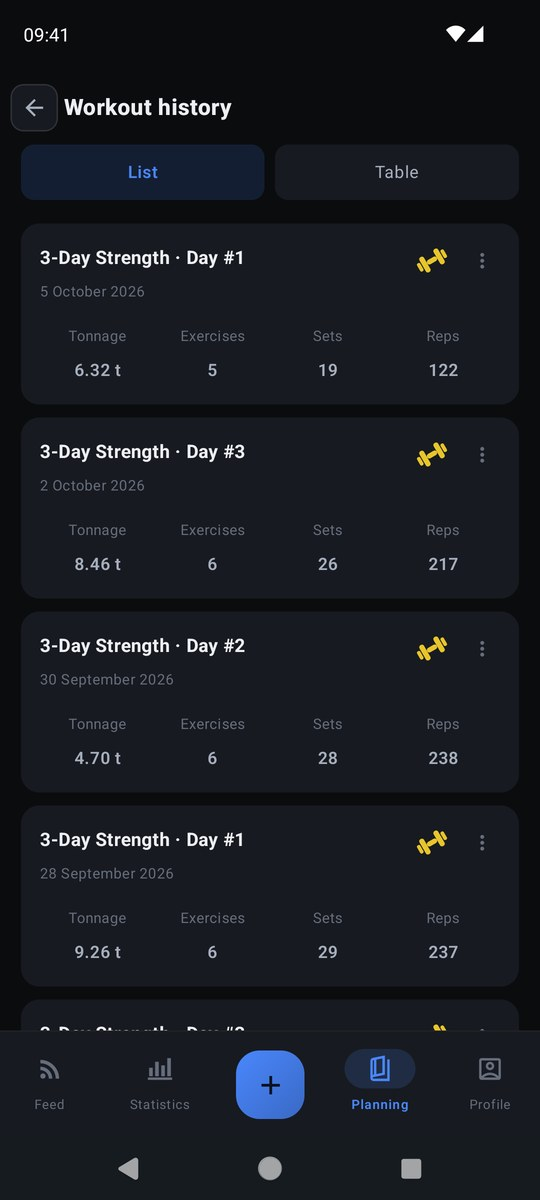
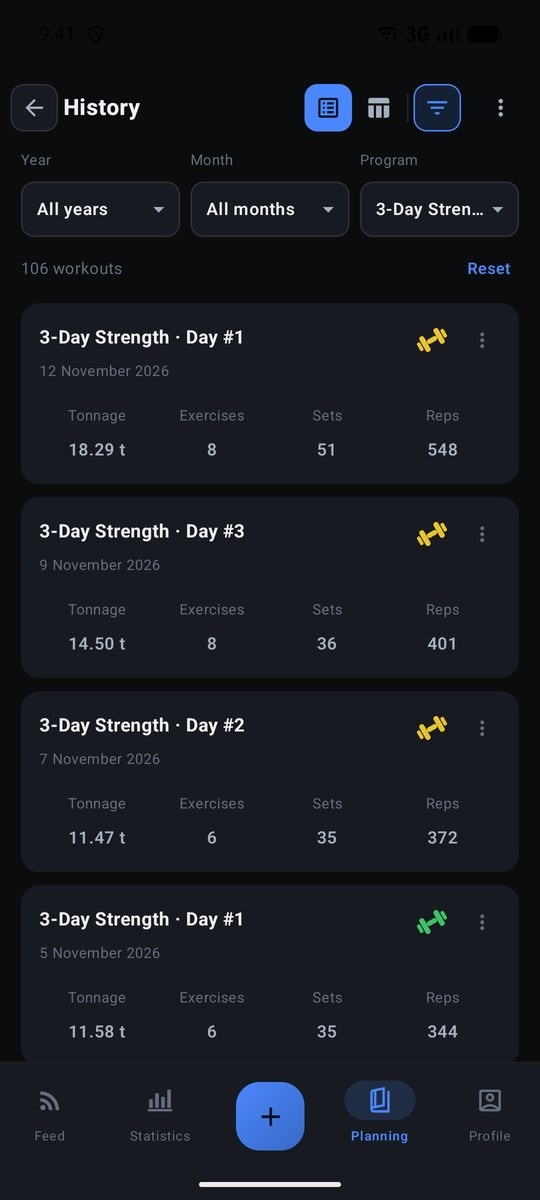
README: cardio, runs, program wizard, records and screenshots for 0.17.0

diff --git a/README.md b/README.md
@@ -2,13 +2,13 @@
 
 **A strength-training diary for Android that plans your progress from what you actually lifted.**
 
-Log every set, run load cycles, see your records and get honest numbers about your training — offline, on your phone. Friends, a shared feed, likes and comments are there when you want them.
+Log every set, record cardio in the gym and runs outdoors, run load cycles, see your records and get honest numbers about your training — offline, on your phone. Friends, a shared feed, likes and comments are there when you want them.
 
 <p align="center">
   <img src="screenshots/statistics.jpg" width="200" alt="Statistics" />
   <img src="screenshots/exercise.jpg" width="200" alt="Exercise screen" />
+  <img src="screenshots/run-summary.jpg" width="200" alt="Run summary" />
   <img src="screenshots/cycle-staircase.jpg" width="200" alt="Load cycle staircase" />
-  <img src="screenshots/records-compare.jpg" width="200" alt="Records" />
 </p>
 
 <p align="center">
@@ -23,8 +23,10 @@ Log every set, run load cycles, see your records and get honest numbers about yo
 - [What makes it different](#what-makes-it-different)
 - [Statistics](#statistics)
 - [The workout](#the-workout)
+- [Cardio and runs](#cardio-and-runs)
 - [Workout summary and history](#workout-summary-and-history)
 - [Planning](#planning)
+- [Program wizard](#program-wizard)
 - [Load cycles (periodization)](#load-cycles-periodization)
 - [Analysis](#analysis)
 - [Records](#records)
@@ -39,6 +41,7 @@ Log every set, run load cycles, see your records and get honest numbers about yo
 ## What makes it different
 
 - **Offline first.** Every workout, program and cycle lives in a local database on your phone. No account is needed to train; the account only adds friends and the feed.
+- **One workout, whatever you do.** Weights, a treadmill and a run outdoors can all sit in the same workout — friends get one start and one finish.
 - **The plan follows the lifter, not the lifter the plan.** A load cycle reads where you stand from the weights you actually lifted — go heavier than planned and the plan moves forward with you; miss twice and it offers a light day instead of more weight.
 - **Numbers you can trust.** 1RM is estimated only up to 10 reps (Brzycki) — above that the app says there is no value rather than invent one. Tonnage means *working* tonnage: warm-up sets are counted separately.
 - **It explains, it does not decide.** Rest times, warm-up ramps, weekly volume — every rule the app uses is written down in *Guides* with its sources and what happens if you change it. Recommendations are text; nothing changes without you.
@@ -48,7 +51,7 @@ Log every set, run load cycles, see your records and get honest numbers about yo
 
 ## Statistics
 
-The start screen. A calendar of your training on top, then the weekly tonnage goal and four tabs underneath: charts, goals, analysis and achievements.
+The start screen is a list of cards you arrange yourself: the calendar, a muscle map, the weekly tonnage goal, sleep and activity from Health Connect, and four tabs — charts, goals, analysis and achievements.
 
 <table>
   <tr>
@@ -57,7 +60,7 @@ The start screen. A calendar of your training on top, then the weekly tonnage go
     <td width="33%"><img src="screenshots/year.jpg" /></td>
   </tr>
   <tr>
-    <td><b>Calendar and weekly goal.</b> Each training day carries a dumbbell coloured by how hard the workout was — the share of hard working sets, not an average. Up to four friends show as coloured bars under the days they trained.</td>
+    <td><b>Calendar and muscle map.</b> Each training day carries a dumbbell coloured by how hard the workout was — the share of hard working sets, not an average. Swipe the calendar up to fold it to one week. Up to four friends show as coloured bars under the days they trained. The muscle map shows weekly volume, recovery and what hasn’t been trained for a while.</td>
     <td><b>A day in the calendar.</b> Tap a day to see its workouts: tonnage, exercises, sets and reps. Tap the card to open the full summary.</td>
     <td><b>The year.</b> Tap the month name to see twelve months on one screen — yours or a friend's: workouts, per week, tonnage and hours in the gym, each day coloured by difficulty.</td>
   </tr>
@@ -72,24 +75,24 @@ The start screen. A calendar of your training on top, then the weekly tonnage go
     <td><b>An exercise over time.</b> The heaviest set and the tonnage of any exercise, and the tonnage of a single program day.</td>
   </tr>
   <tr>
+    <td><img src="screenshots/cardio-chart.jpg" /></td>
     <td><img src="screenshots/stats-goals.jpg" /></td>
     <td><img src="screenshots/stats-analysis.jpg" /></td>
-    <td><img src="screenshots/achievements.jpg" /></td>
   </tr>
   <tr>
+    <td><b>Cardio chart.</b> The fifth page of the charts: minutes or kilometres of cardio per workout, each kind in its own colour — running, walking, cycling and every machine.</td>
     <td><b>Goals.</b> A goal is either a 1RM (“150 kg max”) or weight for reps (“100 kg × 10”). Tap a goal to open the workout where its current best was set.</td>
     <td><b>Analysis at a glance.</b> A short summary of the program check; the full report lives in Planning.</td>
-    <td><b>Achievements</b> with their progress bars.</td>
   </tr>
   <tr>
+    <td><img src="screenshots/achievements.jpg" /></td>
     <td><img src="screenshots/continue-pill.jpg" /></td>
-    <td></td>
-    <td></td>
+    <td><img src="screenshots/stats-customize.jpg" /></td>
   </tr>
   <tr>
+    <td><b>Achievements</b> with their progress bars.</td>
     <td><b>Continue.</b> While a workout is running, a pill with its timer sits in the corner of every tab and brings you back exactly where you stopped.</td>
-    <td></td>
-    <td></td>
+    <td><b>Customize layout.</b> Drag cards by the handle under them, remove the ones you don’t need and bring them back with “Add card”.</td>
   </tr>
 </table>
 
@@ -104,37 +107,78 @@ The start screen. A calendar of your training on top, then the weekly tonnage go
     <td width="33%"><img src="screenshots/exercise.jpg" /></td>
   </tr>
   <tr>
-    <td><b>Start a workout.</b> The next day of your active program is picked from the last one you finished. Choose another day, connect a Bluetooth heart-rate strap, and go.</td>
-    <td><b>The workout.</b> The day’s exercises, progress, photos and a comment. Supersets are grouped in one frame; any exercise can be swapped for an alternative for today only.</td>
-    <td><b>An exercise.</b> The capsule on top shows the workout time, the rest timer and time since the last set; below — what you did last time, so you know what to beat.</td>
+    <td><b>Start a workout.</b> Tiles pick the kind: gym, indoor cardio or outdoor. For the gym, the next day of your current program is picked from the last one you finished; choose another on the wheel, connect a Bluetooth heart-rate strap, and go.</td>
+    <td><b>The workout.</b> The day’s exercises, progress, photos and a comment. Supersets are grouped in one frame; any exercise can be swapped for an alternative for today only. “Add cardio” puts a machine right after what you’ve already done.</td>
+    <td><b>An exercise.</b> The capsule on top shows the workout time, the rest timer and time since the last set; under the photo — the program’s heavy, medium or light badge (tap it for what it means); below — the program’s dose and what you did last time.</td>
   </tr>
   <tr>
     <td><img src="screenshots/add-set.jpg" /></td>
+    <td><img src="screenshots/add-set-sides.jpg" /></td>
     <td><img src="screenshots/rest-recovery.jpg" /></td>
-    <td><img src="screenshots/session-history.jpg" /></td>
   </tr>
   <tr>
     <td><b>Add a set.</b> Two wheels for weight and reps, prefilled from the cycle, from last session or from the warm-up ramp. Rate the effort 1–5 (1 is a warm-up); it drives the smart rest timer and the workout’s difficulty.</td>
+    <td><b>Left and right.</b> For one-arm and one-leg exercises “Add set” has Left and Right tabs. The weaker side counts for 1RM, records and cycles; tonnage adds both.</td>
     <td><b>Rest and recovery.</b> The rest timer is a real alarm — it rings with the phone in your pocket. During the rest, an approximate model shows how much phosphocreatine and how much of the metabolite load has recovered.</td>
-    <td><b>Session history.</b> Every previous session of this exercise as a list or as a table, one tap away from the exercise screen.</td>
   </tr>
   <tr>
+    <td><img src="screenshots/session-history.jpg" /></td>
     <td><img src="screenshots/exercise-menu.jpg" /></td>
-    <td></td>
-    <td></td>
+    <td><img src="screenshots/something-hurts.jpg" /></td>
   </tr>
   <tr>
-    <td><b>Exercise menu.</b> Destructive actions live behind ⋮ and ask first — a long press never performs an action.</td>
-    <td></td>
-    <td></td>
+    <td><b>Session history.</b> Every previous session of this exercise as a list or as a table, one tap away from the exercise screen.</td>
+    <td><b>Exercise menu.</b> Destructive actions live behind ⋮ and ask first — a long press never performs an action. A set is edited with the pencil and deleted in the edit window, with Undo.</td>
+    <td><b>Something hurts.</b> Mark a joint or a muscle and how much it hurts. Every exercise that loads that spot reminds you of it until you tap “It’s gone”; “A lot” comes with “see a doctor”.</td>
+  </tr>
+  <tr>
+    <td><img src="screenshots/readiness.jpg" /></td>
+    <td><img src="screenshots/superset-card.jpg" /></td>
+    <td><img src="screenshots/hints.jpg" /></td>
+  </tr>
+  <tr>
+    <td><b>Readiness.</b> Your answer to “How are you today?”, a pain note, short sleep, or two hard workouts with falling numbers — when something is off, a card suggests going lighter and says why.</td>
+    <td><b>A superset as one card.</b> Exercises numbered 1, 2, 3 and the sets shown in rounds — in your workout overview and in a friend’s post.</td>
+    <td><b>Warnings and tips.</b> Too many sets for one muscle in a workout, too few in a week, the tip of the day, deadlift, bench and squat hints — each with its own switch and its real card.</td>
   </tr>
 </table>
 
 **Smart helpers** (all optional, all switchable under *For experienced lifters*):
 
-- **Smart rest timer** — the pause is computed from the set you just logged: 90 s after a warm-up, 2 min over 8 reps, 3 min at 5–8, 4 min at 4 or fewer; ±1 min for “hard”/“easy”. In a superset the rest starts only when the round is closed.
+- **Smart rest timer** — the pause is computed from the set you just logged: 90 s after a warm-up, 2 min over 8 reps, 3 min at 5–8, 4 min at 4 or fewer, two thirds of that for an isolation exercise; ±1 min for “hard”/“easy”. In a superset the rest starts only when the round is closed.
 - **Smart warm-up** — a ramp to today’s working weight that depends on the working reps, ending with a heavy single or double for low-rep work; skipped when another exercise has already warmed the same muscle.
 - **Time under load** — the time your muscles spend under the bar, from each set’s start and finish.
+
+---
+
+## Cardio and runs
+
+Indoor machines and outdoor runs are part of the same workout as your sets.
+
+<table>
+  <tr>
+    <td width="33%"><img src="screenshots/outdoor-start.jpg" /></td>
+    <td width="33%"><img src="screenshots/run-live.jpg" /></td>
+    <td width="33%"><img src="screenshots/run-summary.jpg" /></td>
+  </tr>
+  <tr>
+    <td><b>Outdoor.</b> Running, walking or cycling. The card shows whether GPS has a fix; you can start before it does and the route begins with the first fix.</td>
+    <td><b>Recording.</b> The map follows you, with distance, moving time, current and average pace, heart rate and climb. The notification has Pause, and if Android closes the app, what was recorded stays.</td>
+    <td><b>Run summary.</b> The route on a map, the time of every kilometre, an elevation profile (barometer when the phone has one) and time in heart-rate zones.</td>
+  </tr>
+  <tr>
+    <td><img src="screenshots/run-records.jpg" /></td>
+    <td><img src="screenshots/cardio-machines.jpg" /></td>
+    <td><img src="screenshots/cardio-entry.jpg" /></td>
+  </tr>
+  <tr>
+    <td><b>A run.</b> The route, pace per kilometre, climb and heart rate — and “★ New record” when a stretch of this run beats your earlier best.</td>
+    <td><b>Indoor cardio.</b> Treadmill, elliptical, stationary and recumbent bikes, rowing machine, stepper, stair climber, jump rope. Start it from the Cardio tile, or add it to a gym workout with “Add cardio”.</td>
+    <td><b>After Finish.</b> The stopwatch runs while you train; afterwards enter what the machine showed — distance, level, calories. Effort is graded by your heart-rate zones.</td>
+  </tr>
+</table>
+
+Runs show up in history, the calendar and your post for friends. Turn off *Show friends the route of my runs* and friends see only the distance and time. How the tracker filters GPS noise and counts pace and climb is in the *GPS accuracy* guide.
 
 ---
 
@@ -158,12 +202,12 @@ The start screen. A calendar of your training on top, then the weekly tonnage go
   </tr>
   <tr>
     <td><b>Workout details.</b> Every set with its weight, reps and effort; repeated sets are collapsed into one line.</td>
-    <td><b>Workout history</b> as a list of cards…</td>
+    <td><b>Workout history</b> as a list of cards, filtered by year, month and program…</td>
     <td>…or as a <b>table</b>: one row per exercise, one column per week — a whole program on one screen.</td>
   </tr>
 </table>
 
-A finished workout can be reopened for 30 minutes — for the set you forgot or the “Finish” you tapped by accident.
+A finished workout can be reopened for 30 minutes — for the set you forgot or the “Finish” you tapped by accident. Later on, “Edit workout” in ⋮ fixes its sets, exercises and time.
 
 ---
 
@@ -176,9 +220,9 @@ A finished workout can be reopened for 30 minutes — for the set you forgot or 
     <td width="33%"><img src="screenshots/programs.jpg" /></td>
   </tr>
   <tr>
-    <td><b>Planning hub.</b> Programs, analysis, records, the exercise library, periodization, goals, a 1RM calculator, history and guides. Hold a tile for two seconds and drag to reorder.</td>
+    <td><b>Planning hub.</b> Programs, analysis, records, the exercise library, periodization, goals, a 1RM calculator, history, your gym and guides. Hold a tile for two seconds and drag to reorder.</td>
     <td><b>Tip of the day</b> at the bottom of the hub.</td>
-    <td><b>Program builder.</b> The active program and the archive. A program with history is archived, never deleted — your workouts stay.</td>
+    <td><b>Programs.</b> The current program, ready-made programs and the archive. A program with history is archived, never deleted — your workouts stay.</td>
   </tr>
   <tr>
     <td><img src="screenshots/program-days.jpg" /></td>
@@ -186,8 +230,8 @@ A finished workout can be reopened for 30 minutes — for the set you forgot or 
     <td><img src="screenshots/library-group.jpg" /></td>
   </tr>
   <tr>
-    <td><b>Program days.</b> Days with their exercises, drag to reorder, supersets made by holding one exercise over another, and alternatives for each slot. Each exercise can carry its own goal — strength, size, endurance — with its set and rep range under it.</td>
-    <td><b>Exercise library.</b> 549 exercises grouped by muscle, with search, plus your own exercises.</td>
+    <td><b>Program days.</b> Days with their exercises, drag to reorder, supersets made by holding one exercise over another, alternatives for each slot, and “Copy to another day” in ⋮. Each exercise shows its goal, its set and rep range and a heavy / medium / light badge.</td>
+    <td><b>Exercise library.</b> 550 exercises grouped by muscle, with search, plus your own exercises — compound or isolation, with two photos, the sport, secondary muscles and the equipment. “Only my exercises” lists just yours.</td>
     <td><b>A muscle group</b> — every exercise with a start-and-finish photo and its equipment.</td>
   </tr>
   <tr>
@@ -202,15 +246,36 @@ A finished workout can be reopened for 30 minutes — for the set you forgot or 
   </tr>
   <tr>
     <td><img src="screenshots/guide-article.jpg" /></td>
-    <td></td>
-    <td></td>
+    <td><img src="screenshots/my-gym.jpg" /></td>
+    <td><img src="screenshots/share-qr.jpg" /></td>
   </tr>
   <tr>
     <td><b>A guide.</b> What the number is, why this number, what breaks if you change it, and where it comes from.</td>
-    <td></td>
-    <td></td>
+    <td><b>My gym.</b> The bars and plates you have. The plate calculator in “Add set” loads the fewest plates and never more than exist; the exercise list can show only what your gym has.</td>
+    <td><b>Share a program</b> by link, QR code, file or straight to a friend in the app. Your weights, history and cycles stay with you.</td>
   </tr>
 </table>
+
+---
+
+## Program wizard
+
+Pick a goal and the number of days, and the wizard suggests which exercises go on which day, how many sets and at what weight. Its norms come from the app’s two handbooks; every number is recomputed from the real days on each change.
+
+<table>
+  <tr>
+    <td width="33%"><img src="screenshots/wizard-goal.jpg" /></td>
+    <td width="33%"><img src="screenshots/wizard-efficiency.jpg" /></td>
+    <td width="33%"><img src="screenshots/wizard-days.jpg" /></td>
+  </tr>
+  <tr>
+    <td><b>Goal.</b> Strength, size, strength endurance or fat loss — for the whole program or for each muscle group.</td>
+    <td><b>Efficiency and schedule.</b> The scale shows how close the program comes to the norms and what is short. Pick the weekdays and the wizard checks the rest between heavy days; pick fewer days than the program has and it runs in a loop.</td>
+    <td><b>Days.</b> Every exercise with its dose — sets × reps, reps in reserve, % of your max — and a heavy, medium or light badge. For strength: the competition bench twice a week, the third press a variation.</td>
+  </tr>
+</table>
+
+Red advice never blocks you: the program stays yours.
 
 ---
 
@@ -218,10 +283,11 @@ A finished workout can be reopened for 30 minutes — for the set you forgot or 
 
 A load cycle is one row of settings; the plan is computed from it, never stored. Its unit is the **executions of the exercise**, not weeks — how long it takes depends on how often you train.
 
-Two models:
+Three models:
 
 - **Percent of working weight** — light, medium and heavy sessions (80 / 90 / 100 % by default, editable) with a step up every few cycles at a rate computed from your training age and how far you are below your own record.
 - **Wave** — the weight climbs step by step to a ceiling, takes it one to three times with more reps each time, then rolls back and starts the next wave higher. The rollback *is* the deload.
+- **Effort wave** — plans how hard the last working set is (reps in reserve), not the weight; the weight is only suggested from your 1RM.
 
 <table>
   <tr>
@@ -237,12 +303,12 @@ Two models:
   <tr>
     <td><img src="screenshots/cycle-form-2.jpg" /></td>
     <td><img src="screenshots/cycle-form-3.jpg" /></td>
-    <td></td>
+    <td><img src="screenshots/effort-wave.jpg" /></td>
   </tr>
   <tr>
     <td><b>Goal and pace.</b> 1RM or weight-for-reps, a start and a target; the app recommends how many cycles that takes and roughly how long, and says so plainly.</td>
     <td><b>Wave settings.</b> Sessions on the climb, the weight increment of your bar, how many times to take the top weight, and the reps of every session.</td>
-    <td></td>
+    <td><b>Effort wave.</b> Plans how hard the last working set is — easy, medium, hard or to failure — and suggests the weight from your 1RM. It offers to shift the wave by how you rated that set, never by weight alone.</td>
   </tr>
 </table>
 
@@ -260,7 +326,7 @@ Exercises that share muscles and a training day can run **in antiphase** so thei
   </tr>
   <tr>
     <td><b>Analysis</b> of a program or of a single exercise.</td>
-    <td><b>Program analysis.</b> One goal for the whole program — or a goal for each exercise. Then every exercise gets its own card: weekly sets first, then reps, sets per workout and rest, each on a red–yellow–green line that shows where you stand. Counted from what you actually did in the last 28 days, not from the template.</td>
+    <td><b>Program analysis.</b> One goal for the whole program — or a goal for each muscle group. Weekly sets first, then reps, sets per workout and rest, each on a red–yellow–green line that shows where you stand. Counted from what you actually did in the last 7, 14, 28 days or 3 months, not from the template.</td>
     <td><b>Heavy and light days.</b> A strength exercise trained heavy one day and light the next is split by reps: heavy sessions are measured as strength, light ones as size — so the light day no longer spoils the strength numbers. Per week or per program pass, in the ⋮ menu.</td>
   </tr>
   <tr>
@@ -279,7 +345,7 @@ Exercises that share muscles and a training day can run **in antiphase** so thei
 
 ## Records
 
-All-time bests — over the whole history or for one muscle group. Only working sets of finished workouts count; for equal results the first one holds the record. Tap a record to open the workout where it was set.
+All-time bests — over the whole history or for one muscle group, plus the fastest stretches of your runs and rides. Only working sets of finished workouts count; for equal results the first one holds the record. Tap a record to open the workout where it was set.
 
 <table>
   <tr>
@@ -295,12 +361,12 @@ All-time bests — over the whole history or for one muscle group. Only working 
   <tr>
     <td><img src="screenshots/records-picker.jpg" /></td>
     <td><img src="screenshots/records-rep-max-2.jpg" /></td>
-    <td></td>
+    <td><img src="screenshots/cardio-records.jpg" /></td>
   </tr>
   <tr>
     <td><b>Picking exercises</b> from your history, with search.</td>
     <td>Rep maxes for the high-rep end of the table.</td>
-    <td></td>
+    <td><b>Cardio records.</b> Your fastest 1, 5 and 10 km, half marathon and longest run — 10, 20 and 40 km on the bike — found inside every track. A record counts only when it beats an earlier run; tap it to open that run.</td>
   </tr>
 </table>
 
@@ -310,18 +376,30 @@ All-time bests — over the whole history or for one muscle group. Only working 
 
 <table>
   <tr>
+    <td width="33%"><img src="screenshots/feed-run.jpg" /></td>
     <td width="33%"><img src="screenshots/feed.jpg" /></td>
     <td width="33%"><img src="screenshots/friends.jpg" /></td>
-    <td width="33%"><img src="screenshots/account.jpg" /></td>
   </tr>
   <tr>
-    <td><b>Feed.</b> Your workouts and your friends’: tonnage, exercises, sets, reps, difficulty, photos and heart rate. Like and comment; a bell shows new workouts, likes and comments.</td>
+    <td><b>Runs in the Feed.</b> The route map, distance, time and pace, the records the run set and an effort marker from heart-rate zones. The map can be switched off in the feed card settings.</td>
+    <td><b>Feed.</b> Your workouts and your friends’, newest finished first: tonnage, exercises, sets, reps, difficulty, photos, heart rate and runs. Like, comment or react while a friend is still training; a bell shows new workouts, likes and comments.</td>
     <td><b>Friends.</b> Friendship is mutual — find a person by name or by an 8-character friend code, shown as a QR code or sent as a link.</td>
+  </tr>
+  <tr>
+    <td><img src="screenshots/account.jpg" /></td>
+    <td><img src="screenshots/appearance.jpg" /></td>
+    <td><img src="screenshots/feed-card-settings.jpg" /></td>
+  </tr>
+  <tr>
     <td><b>Account.</b> Only needed for friends and the feed. Your workouts stay on the phone either way; signing out keeps everything.</td>
+    <td><b>Appearance.</b> Theme, capsule, what the workout overview and the feed card show, and which tips the app gives.</td>
+    <td><b>A live preview.</b> Every switch changes a real card on made-up numbers right above it, so you see what you turn off.</td>
   </tr>
 </table>
 
-A published workout is a snapshot: exercises, sets, photos and heart rate — never your program, days or cycles. Publishing can be turned off.
+While a friend trains, their card in the Feed is live: what they are doing right now — gym, cardio or outdoors — and the exercise they are on. Send a reaction, a GIF or a photo into the conversation under the workout.
+
+A published workout is a snapshot: exercises, sets with their rest and heart rate, photos and runs (with the route, unless you turn that off) — never your program, days or cycles. Publishing can be turned off.
 
 ---
 
@@ -335,7 +413,7 @@ A published workout is a snapshot: exercises, sets, photos and heart rate — ne
   </tr>
   <tr>
     <td><b>Profile.</b> Age (from your date of birth), weight, height, account, friends, privacy, health data and settings.</td>
-    <td><b>Settings.</b> <i>For experienced lifters</i> is one switch that hides and disables the smart warm-up, smart rest, time under load and load cycles — and brings them back untouched.</td>
+    <td><b>Settings.</b> Experienced-lifter features, appearance, notifications, maps and language.</td>
     <td><b>Theme.</b> Dark or light, any accent colour from a slider — the whole palette is generated from one hue with readable contrast at every point.</td>
   </tr>
   <tr>
@@ -361,22 +439,22 @@ A published workout is a snapshot: exercises, sets, photos and heart rate — ne
   <tr>
     <td><img src="screenshots/training-experience.jpg" /></td>
     <td><img src="screenshots/backups.jpg" /></td>
-    <td></td>
+    <td><img src="screenshots/maps.jpg" /></td>
   </tr>
   <tr>
     <td><b>Training experience.</b> Years and records for the bench, squat and deadlift — answered once, used to set the pace of every cycle.</td>
-    <td><b>Backups.</b> An automatic copy after every workout into Downloads (or a folder of your choice, Google Drive included), restore, and import from a GymUp backup.</td>
-    <td></td>
+    <td><b>Backups.</b> An automatic copy after every workout into Downloads (or a folder of your choice, Google Drive included), restore, and import from GymUp, Strong, Hevy and FitNotes.</td>
+    <td><b>Maps.</b> Download an area to see the map without a connection, choose whether the map may use mobile data, and refresh areas once a month over Wi‑Fi.</td>
   </tr>
   <tr>
-    <td><img src="screenshots/appearance.jpg" /></td>
-    <td><img src="screenshots/feed-card-settings.jpg" /></td>
-    <td><img src="screenshots/hints.jpg" /></td>
+    <td><img src="screenshots/body.jpg" /></td>
+    <td><img src="screenshots/body-build.jpg" /></td>
+    <td><img src="screenshots/advanced.jpg" /></td>
   </tr>
   <tr>
-    <td><b>Appearance.</b> Theme, capsule, what the workout overview and the feed card show, and which tips the app gives.</td>
-    <td><b>A live preview.</b> Every switch changes a real card on made-up numbers right above it, so you see what you turn off.</td>
-    <td><b>Warnings and tips.</b> Too many sets for one muscle in a workout, too few in a week, the tip of the day, deadlift, bench and squat hints — each with its own switch and its real card.</td>
+    <td><b>Body.</b> Weight with a 7-day average and the pace towards your weight goal, and measurements with photos. A weigh-in from Health Connect is offered, never written in silently.</td>
+    <td><b>Build.</b> From your height and wrist: the frame size and, for men, Casey Butt’s estimate of the drug-free limit — weight, lean mass and each girth next to your latest measurement.</td>
+    <td><b>For experienced lifters.</b> One switch that hides and disables the smart warm-up, smart rest, time under load and load cycles — and brings them back untouched.</td>
   </tr>
 </table>
 
@@ -393,7 +471,9 @@ Requires Android 10 or newer. Updates install only over a build signed with the 
 ## Privacy
 
 - Your training data is stored on your phone. There are no ads and no analytics trackers.
-- The server (Supabase) holds only what the social part needs: your account, profile name and friend code, friendships, published workouts, likes and comments. Your profile photo is visible to friends only.
+- The server (Supabase) holds only what the social part needs: your account, profile name and friend code, friendships, published workouts, likes and comments. Your profile photo is visible to anyone signed in.
+- Health Connect is only read — sleep, steps, calories, resting heart rate and weight — and nothing from it is stored.
+- Map tiles come from OpenFreeMap. Your GPS track stays on the phone; a run's route reaches friends only in a published workout, and that can be turned off.
 - Backups are files you own — in your Downloads folder or wherever you put them.
 
 ## License
